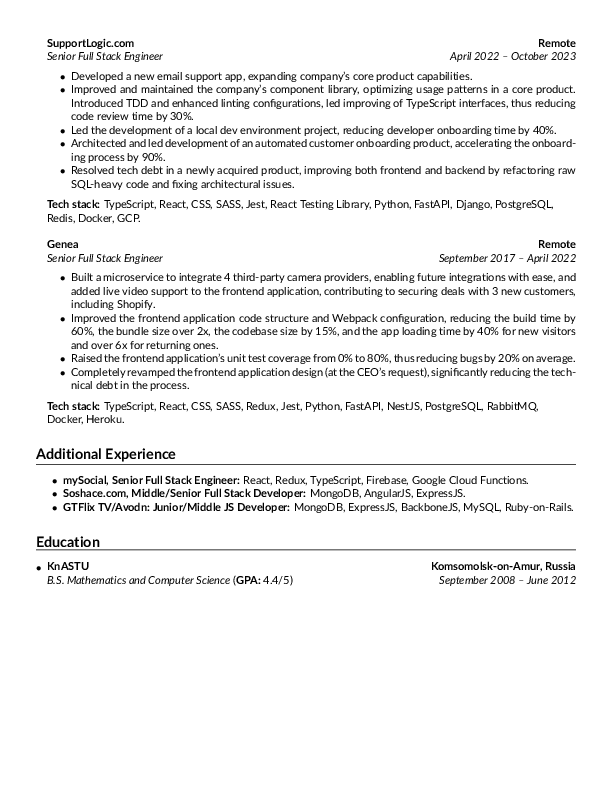
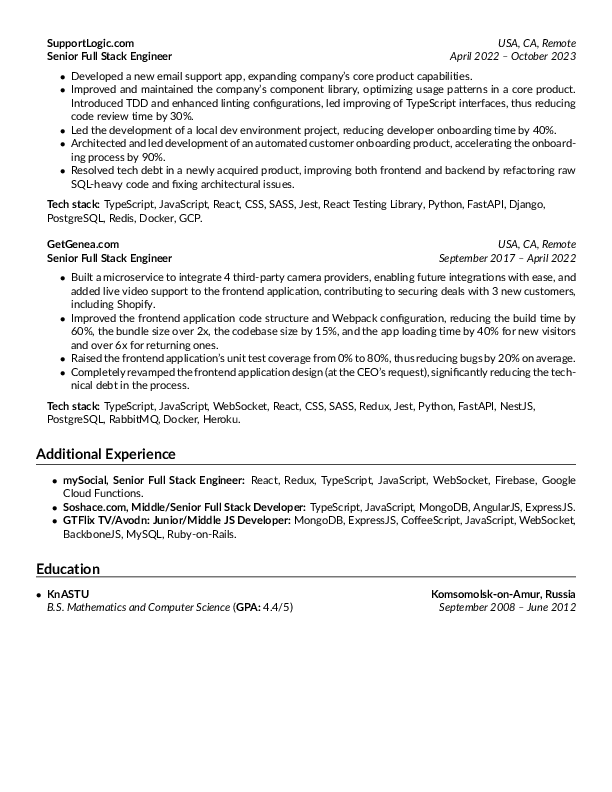
added locations of the companies and websocket/javascript mentions

diff --git a/cv.tex b/cv.tex
@@ -75,10 +75,10 @@ Results-driven lead full stack software engineer with 10+ years of experience in
 \hrule
 \vspace{1em}
 \begin{itemize*}
-	\item {\textbf{Software Development:}} Python, Django, FastAPI, TypeScript, React, CSS, SASS, Redux, Next.js, NestJS, Apollo GraphQL,  Node.js, Jest, React Testing Library.
+	\item {\textbf{Software Development:}} Python, Django, FastAPI, TypeScript, JavaScript, React, Redux, Next.js, WebSocket, CSS, SASS, NestJS, Apollo GraphQL,  Node.js, Jest, React Testing Library.
 	\item {\textbf{Databases \& Cloud:}} PostgreSQL, MongoDB, RabbitMQ, Prisma, Redis, AWS, GCP.
 	\item {\textbf{DevOps \& Tools:}} Nx, Docker, CI/CD, Git, Github Actions.
-	\item {\textbf{Development Practices:}} Agile/Scrum, TDD, System Design, Microservices Architecture, Domain-Driven Design (DDD).
+	\item {\textbf{Development Practices:}} System Design, Domain-Driven Design (DDD), Microservices Architecture, Agile/Scrum, TDD.
 	\item {\textbf{Languages:}} Fluent in Russian and English.
 \end{itemize*}
 
@@ -95,9 +95,9 @@ Results-driven lead full stack software engineer with 10+ years of experience in
 	\item
 		\headerrow
 		{\textbf{Bazaar Origin}}
-		{\textbf{Remote}}
+		{\emph{Thailand, Remote}}
 		\headerrow
-		{\emph{Lead Full Stack Software Engineer}}
+		{\textbf{Lead Full Stack Software Engineer}}
 		{\emph{October 2023 -- Present}}
 		\begin{itemize*}
 			\item Led a full-scale project reboot, transforming a struggling startup into a stable, scalable product.
@@ -109,14 +109,14 @@ Results-driven lead full stack software engineer with 10+ years of experience in
 		\end{itemize*}
 		\vspace{-1em}
 		\begin{flushleft}
-			{\textbf{Tech stack:}} Python, Django, PostgreSQL, MongoDB, Docker, RabbitMQ, TypeScript, NestJS, AWS, Next.js, i18n, React, CSS, SASS, Jest, React Testing Library, and Apollo GraphQL.
+			{\textbf{Tech stack:}} Python, Django, PostgreSQL, MongoDB, Docker, RabbitMQ, TypeScript, JavaScript, WebSocket, NestJS, AWS, Next.js, i18n, React, CSS, SASS, Jest, React Testing Library, and Apollo GraphQL.
 		\end{flushleft}
 	\item
 		\headerrow
 		{\textbf{SupportLogic.com}}
-		{\textbf{Remote}}
+		{\emph {USA, CA, Remote}}
 		\headerrow
-		{\emph{Senior Full Stack Engineer}}
+		{\textbf{Senior Full Stack Engineer}}
 		{\emph{April 2022 -- October 2023}}
 		\begin{itemize*}
 			\item Developed a new email support app, expanding company's core product capabilities.
@@ -127,14 +127,14 @@ Results-driven lead full stack software engineer with 10+ years of experience in
 		\end{itemize*}
 		\vspace{-1em}
 		\begin{flushleft}
-			{\textbf{Tech stack:}} TypeScript, React, CSS, SASS, Jest, React Testing Library, Python, FastAPI, Django, PostgreSQL, Redis, Docker, GCP.
+			{\textbf{Tech stack:}} TypeScript, JavaScript, React, CSS, SASS, Jest, React Testing Library, Python, FastAPI, Django, PostgreSQL, Redis, Docker, GCP.
 		\end{flushleft}
 		\item
 		\headerrow
-		{\textbf{Genea}}
-		{\textbf{Remote}}
+		{\textbf{GetGenea.com}}
+		{\emph{USA, CA, Remote}}
 		\headerrow
-		{\emph{Senior Full Stack Engineer}}
+		{\textbf{Senior Full Stack Engineer}}
 		{\emph{September 2017 -- April 2022}}
 		\begin{itemize*}
 			\item Built a microservice to integrate 4 third-party camera providers, enabling future integrations with ease, and added live video support to the frontend application, contributing to securing deals with 3 new customers, including Shopify.  
@@ -144,7 +144,7 @@ Results-driven lead full stack software engineer with 10+ years of experience in
 		\end{itemize*}
 		\vspace{-1em}
 		\begin{flushleft}
-			{\textbf{Tech stack:}} TypeScript, React, CSS, SASS, Redux, Jest, Python, FastAPI, NestJS, PostgreSQL, RabbitMQ, Docker, Heroku.
+			{\textbf{Tech stack:}} TypeScript, JavaScript, WebSocket, React, CSS, SASS, Redux, Jest, Python, FastAPI, NestJS, PostgreSQL, RabbitMQ, Docker, Heroku.
 		\end{flushleft}
 \end{itemize}
 
@@ -158,9 +158,9 @@ Results-driven lead full stack software engineer with 10+ years of experience in
 \hrule
 \vspace{1em}
 \begin{itemize*}
-	\item \textbf{mySocial, Senior Full Stack Engineer:} React, Redux, TypeScript, Firebase, Google Cloud Functions.
-	\item \textbf{Soshace.com, Middle/Senior Full Stack Developer:} MongoDB, AngularJS, ExpressJS.
-	\item \textbf{GTFlix TV/Avodn: Junior/Middle JS Developer:} MongoDB, ExpressJS, BackboneJS, MySQL, Ruby-on-Rails.
+	\item \textbf{mySocial, Senior Full Stack Engineer:} React, Redux, TypeScript, JavaScript, WebSocket, Firebase, Google Cloud Functions.
+	\item \textbf{Soshace.com, Middle/Senior Full Stack Developer:} TypeScript, JavaScript, MongoDB, AngularJS, ExpressJS.
+	\item \textbf{GTFlix TV/Avodn: Junior/Middle JS Developer:} MongoDB, ExpressJS, CoffeeScript, JavaScript, WebSocket, BackboneJS, MySQL, Ruby-on-Rails.
 \end{itemize*}
 
 %====================================== Education ======================================
